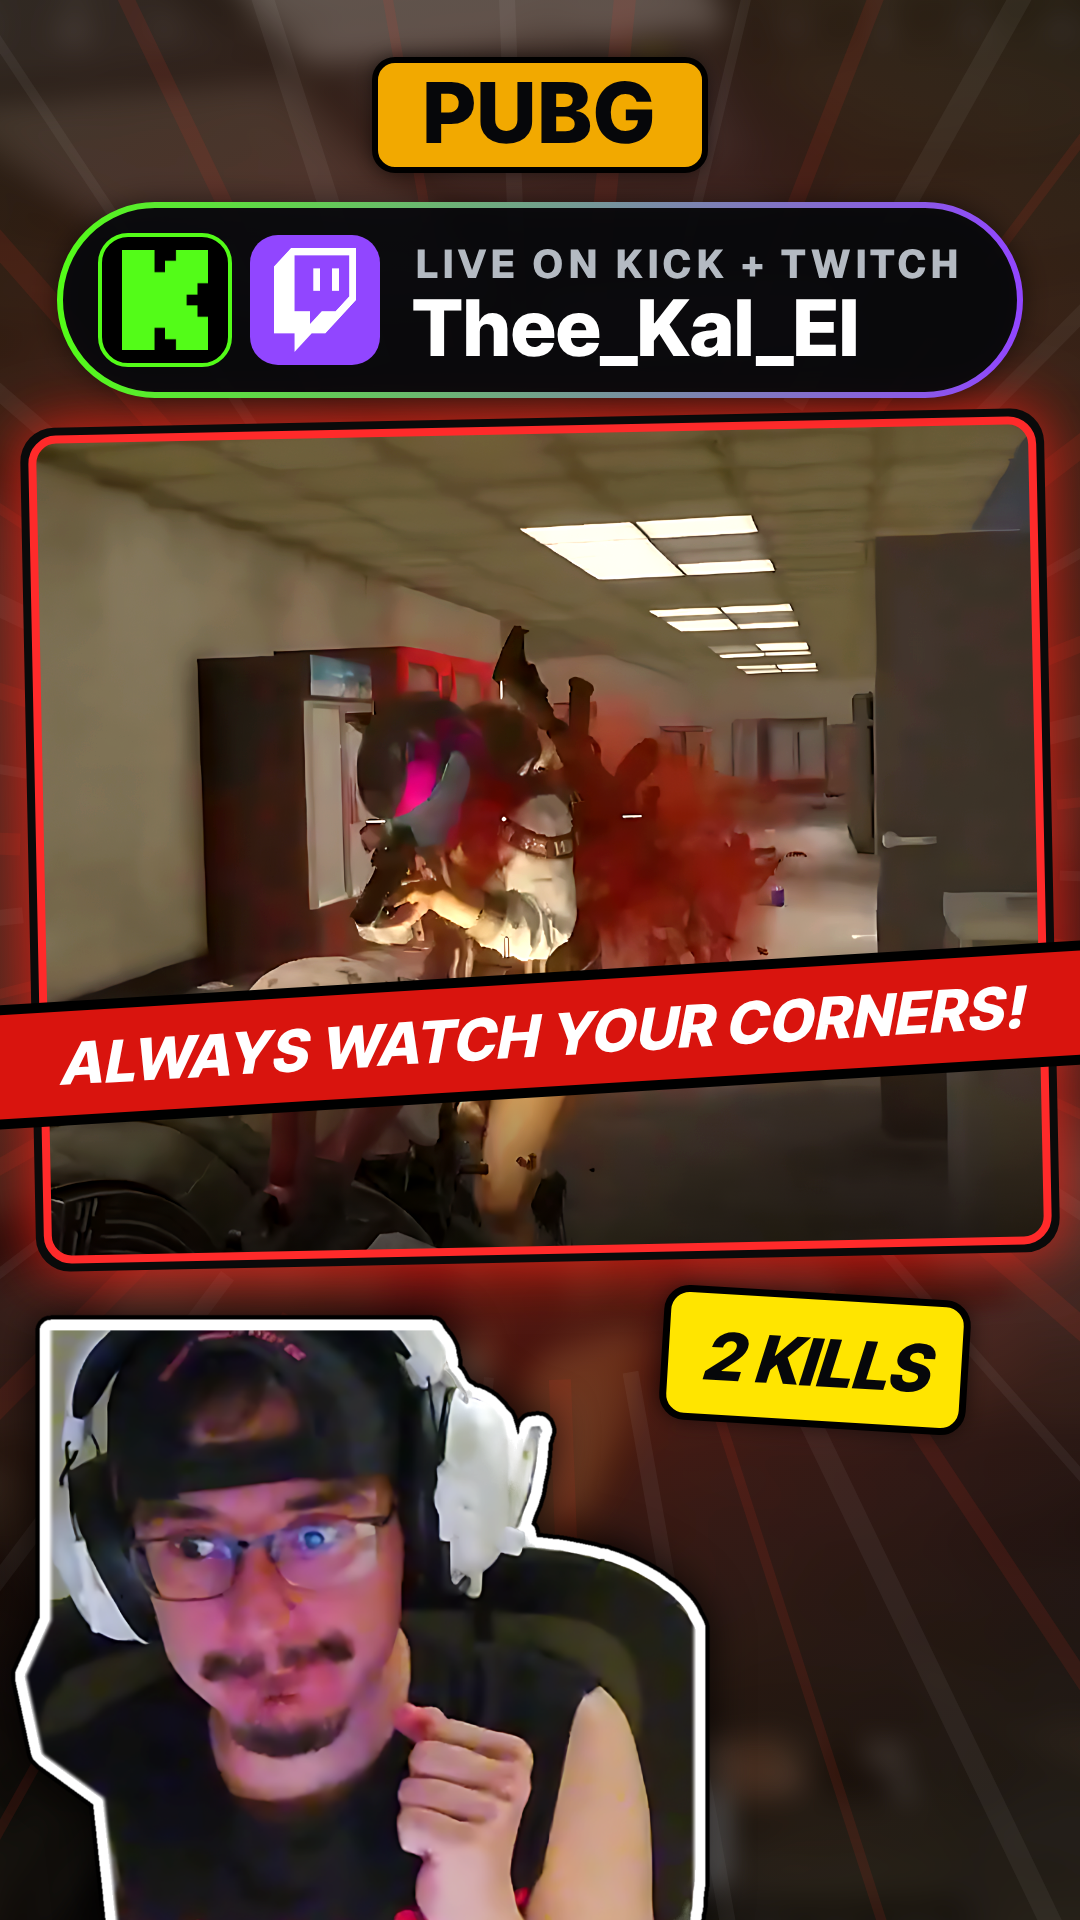
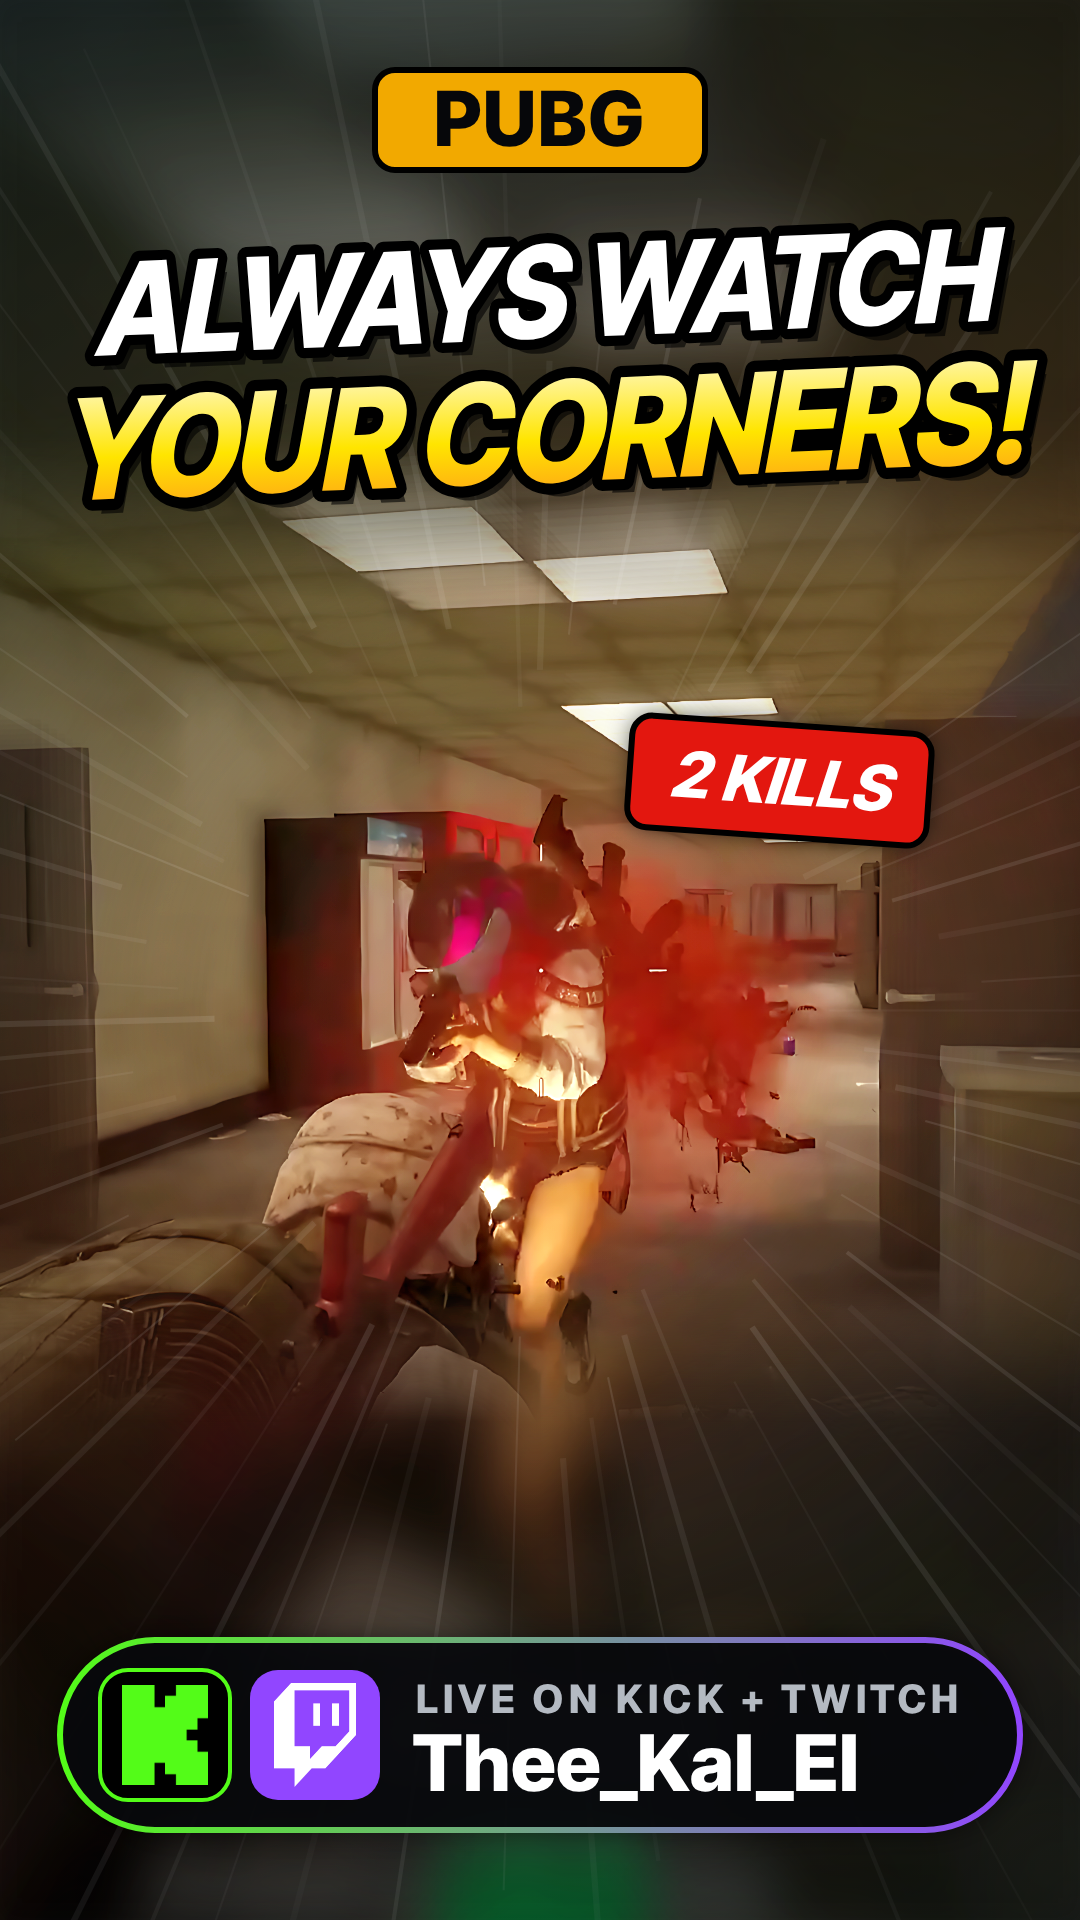
Corners thumbnail: open full-scene layout, no panel/facecam, motion + grade
Claude-Session: https://claude.ai/code/session_01NSJvdmHsHoazKiuuGVQfMY

diff --git a/story/pubg_corners_thumb.html b/story/pubg_corners_thumb.html
@@ -4,63 +4,63 @@
 <style>html,body{margin:0;background:#000}canvas{display:block}</style></head>
 <body><canvas id="s" width="1080" height="1920"></canvas>
 <script>
-// PUBG "ALWAYS WATCH YOUR CORNERS" — vertical cover/thumbnail, 1080x1920: the point-blank corner kill (Real-ESRGAN x4),
-// a red banner, Kal's smug reaction cut out as a sticker, a 2 KILLS chip and the KICK + TWITCH pill.
+// PUBG "ALWAYS WATCH YOUR CORNERS" — vertical cover/thumbnail, 1080x1920. The whole corridor kill (Real-ESRGAN x4 plate), no panel
+// or facecam, feathered into a blurred extension of itself; light zoom-burst and speed streaks toward the enemy, gentle teal/orange
+// grade, stacked headline up top, a 2 KILLS tag, and the KICK + TWITCH pill at the bottom.
 (async () => {
   const c = document.getElementById('s').getContext('2d'), W = 1080, H = 1920, TAU = Math.PI * 2;
-  const YEL = '#FFE500', KICK = '#53FC18', TWI = '#9146FF', RED = '#FF2A2A', INK = '#06070A';
+  const YEL = '#FFE500', KICK = '#53FC18', TWI = '#9146FF', INK = '#06070A';
   const D = (s) => `900 ${s}px "Inter Tight", sans-serif`, G = (w, s) => `${w} ${s}px Geist, "Inter Tight", sans-serif`;
   await Promise.all([document.fonts.load(D(100)), document.fonts.load(G(800, 40))]);
   const img = (src) => new Promise((r) => { const i = new Image(); i.onload = () => r(i); i.src = src; });
-  const [me, duel, kick, twitch] = await Promise.all([img('kal_smug_sticker.png'), img('../thumb/corners/game_x4.png'), img('kick_k.png'), img('twitch_glitch.png')]);
+  const [plate, kick, twitch] = await Promise.all([img('../thumb/corners/game_x4.png'), img('kick_k.png'), img('twitch_glitch.png')]);
   const rr = (x, y, w, h, r) => { c.beginPath(); c.roundRect(x, y, w, h, r); };
-  function word(s, x, y, size, fill, rot = 0, align = 'center', sx = 0.9, ital = true) {
-    c.save(); c.translate(x, y); c.rotate(rot); c.scale(sx, 1); c.font = (ital ? 'italic ' : '') + D(size); c.textAlign = align; c.textBaseline = 'middle'; c.letterSpacing = '-3px'; c.lineJoin = 'round';
-    c.fillStyle = 'rgba(0,0,0,0.65)'; c.fillText(s, 10, 14); c.lineWidth = size * 0.17; c.strokeStyle = '#000'; c.strokeText(s, 0, 0);
-    if (Array.isArray(fill)) { const g = c.createLinearGradient(0, -size / 2, 0, size / 2); fill.forEach((f, i) => g.addColorStop(i / (fill.length - 1), f)); c.fillStyle = g; } else c.fillStyle = fill; c.fillText(s, 0, 0); c.restore();
+
+  // ---- the scene, uncropped corridor: sharp plate (x 0..3672, y 300..3640) across the middle, feathered into a blurred,
+  // enlarged copy of itself above and below, so nothing is boxed in
+  const SX = 0, SY = 300, SW = 3672, SH = 3340, k = W / SW, TOP = 440, PH = SH * k, EX = 1800 * k, EY = TOP + (2240 - SY) * k;
+  c.filter = 'blur(26px) brightness(0.55) saturate(1.25)'; c.drawImage(plate, 600, 0, 2472, 4288, -40, -40, W + 80, H + 80); c.filter = 'none';
+  const off = document.createElement('canvas'); off.width = W; off.height = H; const o = off.getContext('2d');
+  o.filter = 'contrast(1.12) saturate(1.25) brightness(1.06)'; o.drawImage(plate, SX, SY, SW, SH, 0, TOP, W, PH); o.filter = 'none';
+  o.globalCompositeOperation = 'destination-in'; let g = o.createLinearGradient(0, TOP, 0, TOP + PH); g.addColorStop(0, 'rgba(0,0,0,0)'); g.addColorStop(0.16, 'rgba(0,0,0,1)'); g.addColorStop(0.86, 'rgba(0,0,0,1)'); g.addColorStop(1, 'rgba(0,0,0,0)'); o.fillStyle = g; o.fillRect(0, 0, W, H);
+  c.drawImage(off, 0, 0);
+  // light zoom-burst toward the kill, kept off the enemy itself
+  const zb = document.createElement('canvas'); zb.width = W; zb.height = H; const z = zb.getContext('2d');
+  for (let i = 1; i <= 6; i++) { const s = 1 + i * 0.018; z.globalAlpha = 0.14; z.drawImage(c.canvas, EX - EX * s, EY - EY * s, W * s, H * s); }
+  z.globalAlpha = 1; z.globalCompositeOperation = 'destination-in'; g = z.createRadialGradient(EX, EY, 260, EX, EY, 760); g.addColorStop(0, 'rgba(0,0,0,0)'); g.addColorStop(1, 'rgba(0,0,0,0.85)'); z.fillStyle = g; z.fillRect(0, 0, W, H);
+  c.drawImage(zb, 0, 0);
+  // warm/cool split grade, gentle
+  c.save(); c.globalCompositeOperation = 'soft-light'; c.globalAlpha = 0.5; g = c.createLinearGradient(0, 0, W, H); g.addColorStop(0, '#1B8AA0'); g.addColorStop(0.55, '#E0864A'); g.addColorStop(1, '#1B6A80'); c.fillStyle = g; c.fillRect(0, 0, W, H); c.restore();
+  // red heat on the blood burst
+  c.save(); c.globalCompositeOperation = 'screen'; g = c.createRadialGradient(EX + 40, EY, 10, EX + 40, EY, 300); g.addColorStop(0, 'rgba(255,50,30,0.45)'); g.addColorStop(1, 'rgba(255,0,0,0)'); c.fillStyle = g; c.fillRect(0, 0, W, H); c.restore();
+  // speed streaks out of the kill
+  c.save(); c.globalCompositeOperation = 'screen'; c.translate(EX, EY);
+  for (let i = 0; i < 70; i++) { const a = i / 70 * TAU + Math.sin(i * 7.3) * 0.03, r0 = 300 + (i * 37 % 160), r1 = r0 + 300 + (i * 53 % 700); c.beginPath(); c.moveTo(Math.cos(a) * r0, Math.sin(a) * r0); c.lineTo(Math.cos(a) * r1, Math.sin(a) * r1); c.strokeStyle = `rgba(255,255,255,${0.04 + (i % 4) * 0.02})`; c.lineWidth = 2 + (i % 3) * 2; c.stroke(); }
+  c.restore();
+  // soft vignette for the type
+  g = c.createRadialGradient(EX, EY, 380, EX, EY, 1250); g.addColorStop(0, 'rgba(0,0,0,0)'); g.addColorStop(1, 'rgba(0,0,0,0.55)'); c.fillStyle = g; c.fillRect(0, 0, W, H);
+
+  // ---- headline, stacked over the ceiling
+  function word(s, x, y, size, fill, rot = -0.04, sx = 0.9) {
+    c.save(); c.translate(x, y); c.rotate(rot); c.scale(sx, 1); c.font = 'italic ' + D(size); c.textAlign = 'center'; c.textBaseline = 'middle'; c.letterSpacing = '-3px'; c.lineJoin = 'round';
+    c.fillStyle = 'rgba(0,0,0,0.6)'; c.fillText(s, 10, 14); c.lineWidth = size * 0.16; c.strokeStyle = '#000'; c.strokeText(s, 0, 0);
+    if (Array.isArray(fill)) { const g2 = c.createLinearGradient(0, -size / 2, 0, size / 2); fill.forEach((f, i) => g2.addColorStop(i / (fill.length - 1), f)); c.fillStyle = g2; } else c.fillStyle = fill; c.fillText(s, 0, 0); c.restore();
   }
+  rr(375, 70, 330, 100, 20); c.fillStyle = '#F2A900'; c.fill(); c.lineWidth = 6; c.strokeStyle = '#000'; c.stroke(); c.font = D(76); c.fillStyle = INK; c.textAlign = 'center'; c.textBaseline = 'middle'; c.letterSpacing = '2px'; c.fillText('PUBG', 540, 123);
+  word('ALWAYS WATCH', 540, 300, 128, '#FFFFFF');
+  word('YOUR CORNERS!', 540, 440, 140, ['#FFF7B0', YEL, '#FF9A1A']);
 
-  // ---- background: the duel, blurred + darkened full-bleed, red alarm wash
-  c.save(); c.filter = 'blur(14px) brightness(0.4) saturate(1.3)'; c.drawImage(duel, -380, -60, 1840, 2150); c.restore();
-  let g = c.createRadialGradient(540, 860, 200, 540, 860, 1100); g.addColorStop(0, 'rgba(255,30,20,0.35)'); g.addColorStop(1, 'rgba(60,0,0,0.0)'); c.fillStyle = g; c.fillRect(0, 0, W, H);
-  c.save(); c.translate(540, 860); for (let i = 0; i < 46; i++) { const a = i / 46 * TAU + 0.03; c.beginPath(); c.moveTo(Math.cos(a) * 520, Math.sin(a) * 520); c.lineTo(Math.cos(a) * 1500, Math.sin(a) * 1500); c.strokeStyle = i % 2 ? 'rgba(255,60,40,0.10)' : 'rgba(255,255,255,0.05)'; c.lineWidth = 10 + (i % 3) * 6; c.stroke(); } c.restore();
+  // ---- 2 KILLS tag pinned near the enemy
+  c.save(); c.translate(EX + 250, EY - 230); c.rotate(0.07); rr(-150, -56, 300, 112, 20); c.fillStyle = '#E3170F'; c.shadowColor = 'rgba(0,0,0,0.7)'; c.shadowBlur = 24; c.fill(); c.shadowBlur = 0; c.lineWidth = 6; c.strokeStyle = '#000'; c.stroke();
+  c.font = 'italic ' + D(64); c.fillStyle = '#fff'; c.textAlign = 'center'; c.textBaseline = 'middle'; c.letterSpacing = '0px'; c.fillText('2 KILLS', 0, 4); c.restore();
 
-  // ---- the duel panel: source game crop (918x1072, plate is x4) → cropped to the fight and framed
-  const PX = 40, PY = 430, PW = 1000, PH = 820;
-  c.save(); c.translate(540, PY + PH / 2); c.rotate(-0.02); c.translate(-540, -(PY + PH / 2));
-  c.shadowColor = 'rgba(255,30,20,0.85)'; c.shadowBlur = 60; rr(PX - 12, PY - 12, PW + 24, PH + 24, 34); c.fillStyle = '#0A0A0A'; c.fill(); c.shadowBlur = 0;
-  c.save(); rr(PX, PY, PW, PH, 24); c.clip();
-  // source crop (in plate px): x 0..3200, y 1040..3664 — blood in the air, the enemy by the tree, Kal aiming in the foreground
-  c.filter = 'contrast(1.12) saturate(1.25) brightness(1.05)'; c.drawImage(duel, 400, 900, 3100, 2542, PX, PY, PW, PH); c.filter = 'none';
-  g = c.createLinearGradient(0, PY, 0, PY + PH); g.addColorStop(0.7, 'rgba(0,0,0,0)'); g.addColorStop(1, 'rgba(0,0,0,0.55)'); c.fillStyle = g; c.fillRect(PX, PY, PW, PH);
-  c.restore();
-  rr(PX, PY, PW, PH, 24); c.lineWidth = 8; c.strokeStyle = RED; c.stroke();
-  c.restore();
-
-  // ---- kill-feed slash across the duel
-  c.save(); c.translate(540, 1035); c.rotate(-0.06);
-  c.fillStyle = '#000'; c.fillRect(-600, -62, 1200, 124); c.fillStyle = '#D9140E'; c.fillRect(-600, -52, 1200, 104);
-  c.font = 'italic ' + D(58); c.textAlign = 'center'; c.textBaseline = 'middle'; c.fillStyle = '#FFFFFF'; c.letterSpacing = '1px'; c.fillText('ALWAYS WATCH YOUR CORNERS!', 0, 4);
-  c.restore();
-
-  // ---- the scream: cut-out sticker bottom-left, whole head in frame, flat cut sits on the bottom edge
-  { const mw = 720, mh = mw * me.height / me.width, off = document.createElement('canvas'); off.width = W; off.height = H; const o = off.getContext('2d');
-    o.save(); o.shadowColor = 'rgba(0,0,0,0.8)'; o.shadowBlur = 40; o.translate(0, H - mh + 34); o.rotate(0); o.drawImage(me, 0, 0, mw, mh); o.restore();
-    c.drawImage(off, 0, 0); }
-  // "TOP 10" chip next to the scream (he placed top 10)
-  c.save(); c.translate(815, 1360); c.rotate(0.06); rr(-150, -64, 300, 128, 22); c.fillStyle = YEL; c.shadowColor = 'rgba(0,0,0,0.7)'; c.shadowBlur = 24; c.fill(); c.shadowBlur = 0; c.lineWidth = 7; c.strokeStyle = '#000'; c.stroke();
-  c.font = 'italic ' + D(66); c.fillStyle = INK; c.textAlign = 'center'; c.textBaseline = 'middle'; c.fillText('2 KILLS', 0, 6); c.restore();
-
-  // ---- KICK + TWITCH pill, top, under the PUBG tag
-  const sy = 205, px = 60, pw = 960, ph = 190; rr(px, sy, pw, ph, ph / 2); c.fillStyle = 'rgba(8,9,12,0.9)'; c.shadowColor = 'rgba(0,0,0,0.7)'; c.shadowBlur = 30; c.fill(); c.shadowBlur = 0;
+  // ---- KICK + TWITCH pill in the floor shadow
+  const sy = 1640, px = 60, pw = 960, ph = 190; rr(px, sy, pw, ph, ph / 2); c.fillStyle = 'rgba(8,9,12,0.88)'; c.shadowColor = 'rgba(0,0,0,0.7)'; c.shadowBlur = 30; c.fill(); c.shadowBlur = 0;
   c.lineWidth = 6; g = c.createLinearGradient(px, 0, px + pw, 0); g.addColorStop(0, KICK); g.addColorStop(1, TWI); c.strokeStyle = g; c.stroke();
   c.save(); rr(px + 40, sy + 30, 130, 130, 28); c.fillStyle = '#000'; c.fill(); c.lineWidth = 4; c.strokeStyle = KICK; c.stroke(); c.drawImage(kick, px + 62, sy + 45, 86, 100); c.restore();
   c.save(); rr(px + 190, sy + 30, 130, 130, 28); c.fillStyle = TWI; c.fill(); c.drawImage(twitch, px + 214, sy + 43, 82, 104); c.restore();
   c.font = G(800, 40); c.fillStyle = '#B4BAC2'; c.textAlign = 'left'; c.textBaseline = 'middle'; c.letterSpacing = '4px'; c.fillText('LIVE ON KICK + TWITCH', px + 355, sy + 62);
   c.font = D(78); c.fillStyle = '#FFFFFF'; c.letterSpacing = '0px'; c.fillText('Thee_Kal_El', px + 352, sy + 128);
-  // PUBG tag, centred and big
-  rr(375, 60, 330, 110, 20); c.fillStyle = '#F2A900'; c.shadowColor = 'rgba(0,0,0,0.7)'; c.shadowBlur = 20; c.fill(); c.shadowBlur = 0; c.lineWidth = 6; c.strokeStyle = '#000'; c.stroke();
-  c.font = D(84); c.fillStyle = INK; c.textAlign = 'center'; c.textBaseline = 'middle'; c.letterSpacing = '2px'; c.fillText('PUBG', 540, 118);
   document.title = 'done';
 })();
 </script></body></html>
